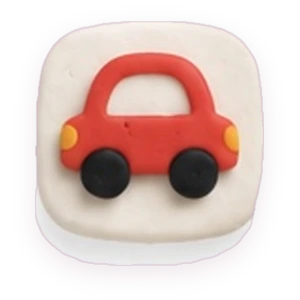
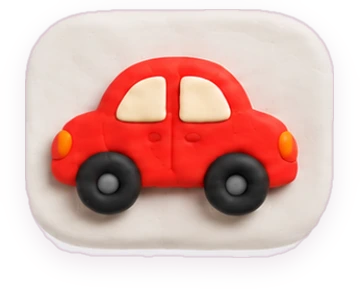
New hi-res clay tiles; violet contour when a button is pressed
Claude-Session: https://claude.ai/code/session_01Foh32h9wfWEj1WZo4VR4Pt

diff --git a/public/index.html b/public/index.html
@@ -58,10 +58,12 @@ body.nowords .caption{display:none}
 .ic-dots circle:nth-child(2){animation-delay:.15s}.ic-dots circle:nth-child(3){animation-delay:.3s}
 @keyframes bob{0%,100%{transform:translateY(0)}50%{transform:translateY(-5px)}}
 .talklabel{display:none}
-.topics{width:100%;max-width:372px;display:grid;grid-template-columns:repeat(6,1fr);gap:0;padding:0;margin-top:2px}
-.topic{display:block;border:0;background:transparent;padding:0;cursor:pointer;aspect-ratio:1;transition:transform .1s}
+.topics{width:100%;max-width:372px;display:grid;grid-template-columns:repeat(6,1fr);gap:0 2px;padding:0;margin-top:2px}
+.topic{display:block;border:0;background:transparent;padding:0;cursor:pointer;aspect-ratio:360/300;transition:transform .1s;position:relative;-webkit-touch-callout:none}
 .topic img{width:100%;height:100%;object-fit:contain;display:block;pointer-events:none}
-.topic:active{transform:translateY(3px) scale(.96)}
+.topic:active,.topic.pressed{transform:translateY(2px) scale(.96)}
+.topic:active img,.topic.pressed img{filter:drop-shadow(0 0 0 #8e4fd6) drop-shadow(0 0 1.5px #8e4fd6) drop-shadow(0 0 1.5px #8e4fd6) drop-shadow(0 0 4px rgba(142,79,214,.6))}
+.talk:active,.talk.pressed{filter:drop-shadow(0 0 0 #8e4fd6) drop-shadow(0 0 2px #8e4fd6) drop-shadow(0 0 2px #8e4fd6) drop-shadow(0 0 6px rgba(142,79,214,.6))}
 .topic[disabled]{opacity:.45}
 .parentbtn{z-index:10;touch-action:manipulation;-webkit-touch-callout:none;position:fixed;top:max(10px,env(safe-area-inset-top));right:max(10px,env(safe-area-inset-right));width:40px;height:40px;border-radius:50%;border:0;background:transparent;color:#cdbfdc;cursor:pointer}
 .parentbtn svg{width:22px;height:22px}
@@ -204,6 +206,6 @@ input[type=number]{width:90px}
 </div>
 
 <script src="/engine.js?v=8"></script>
-<script src="/app.js?v=19"></script>
+<script src="/app.js?v=20"></script>
 </body>
 </html>

diff --git a/public/app.js b/public/app.js
@@ -255,6 +255,7 @@ talkBtn.addEventListener('click',async ()=>{
   }
   startListening(false);
 });
+document.querySelectorAll('.topic, .talk').forEach(b=>b.addEventListener('pointerdown',()=>{ b.classList.add('pressed'); setTimeout(()=>b.classList.remove('pressed'),350); }));
 document.querySelectorAll('.topic').forEach(b=>b.addEventListener('click',async ()=>{
   audioCtx(); if(!S.code){ openSetup(); return; }
   if(state==='sleeping'||minutesLeft()<=0) return goToSleep();
